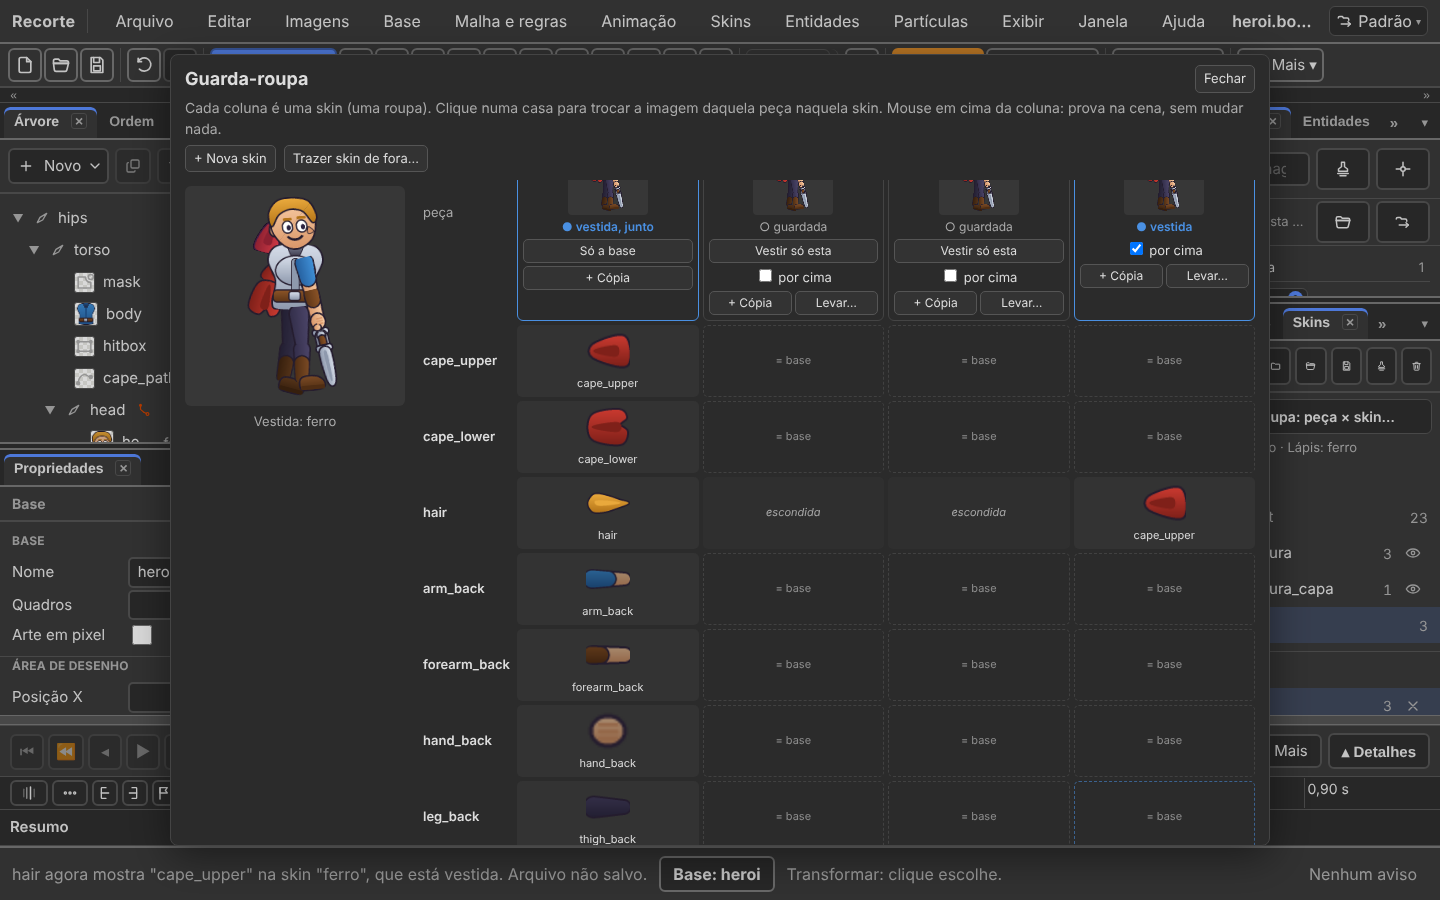
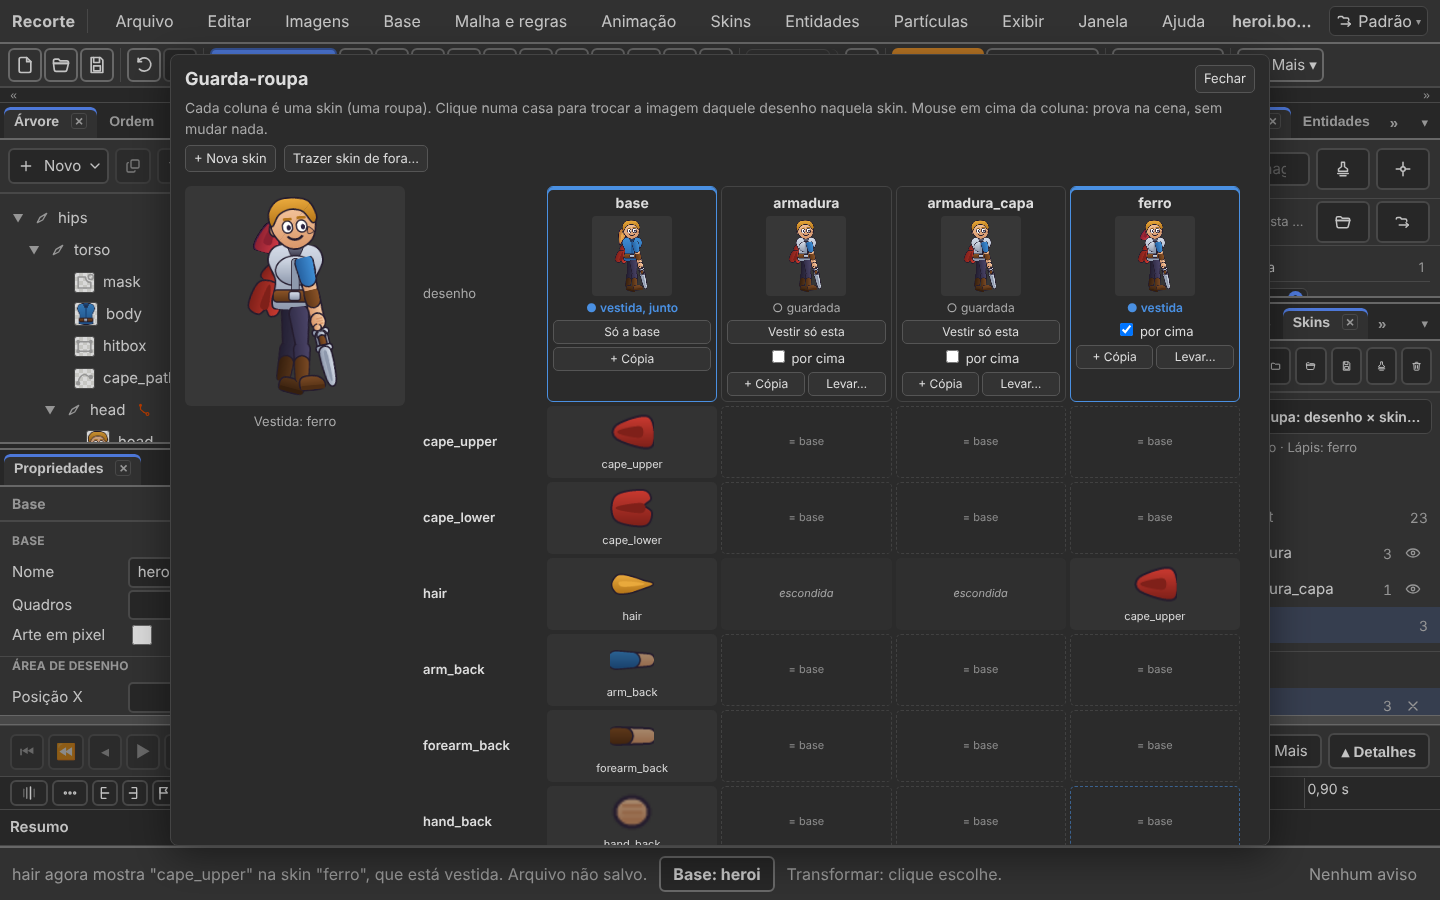
skins: o nome das colunas do Guarda-roupa não rola junto
A foto da prova mostrou: depois de trocar uma imagem, a grade rolava e o
nome da skin de cada coluna sumia. A linha de cima agora fica parada, e a
rolagem da grade se guarda no redesenho.

Claude-Session: https://claude.ai/code/session_01ToK6BbHkRJR6siNrn32NnF

diff --git a/editor/src/panels/skins-wardrobe.ts b/editor/src/panels/skins-wardrobe.ts
@@ -80,6 +80,8 @@ class Wardrobe {
   private readonly fundo: HTMLElement;
   private readonly caixa: HTMLElement;
   private readonly grade: HTMLElement;
+  /** A linha das colunas, fora da parte que rola: o nome da skin nunca some. */
+  private readonly topo: HTMLElement;
   private readonly escolha: HTMLElement;
   /** O boneco grande, à esquerda: mostra o vestido, ou a prova do mouse. */
   private readonly manequim: HTMLImageElement;
@@ -118,7 +120,8 @@ class Wardrobe {
       }),
     );
 
-    this.grade = el('div', 'guarda-roupa-grade');
+    this.topo = el('div', 'guarda-roupa-grade guarda-roupa-topo');
+    this.grade = el('div', 'guarda-roupa-grade guarda-roupa-corpo');
     this.escolha = el('div', 'guarda-roupa-escolha');
     this.escolha.hidden = true;
     // O manequim dos jogos de roupa: o boneco grande ao lado da grade. A
@@ -132,7 +135,9 @@ class Wardrobe {
     lado.append(this.manequim, this.manequimLegenda);
     const meio = el('div', 'guarda-roupa-meio');
     const direita = el('div', 'guarda-roupa-direita');
-    direita.append(this.grade, this.escolha);
+    const tabela = el('div', 'guarda-roupa-tabela');
+    tabela.append(this.topo, this.grade);
+    direita.append(tabela, this.escolha);
     meio.append(lado, direita);
     this.caixa.append(cabeca, ajuda, barra, meio);
     this.fundo.append(this.caixa);
@@ -216,16 +221,22 @@ class Wardrobe {
   render(): void {
     const doc = this.doc;
     const grade = this.grade;
+    const topo = this.topo;
+    const rolagem = grade.scrollTop;
     grade.replaceChildren();
+    topo.replaceChildren();
     const fora = this.externals();
     const pilha = this.provando ?? skinStackOf(doc);
     const colunas = wardrobeColumns(doc.file, pilha, editingSkinOf(doc), fora.map((s) => s.name));
     const pecas = wardrobePieces(doc.file);
-    grade.style.gridTemplateColumns = `minmax(90px, auto) repeat(${colunas.length}, minmax(110px, 1fr))`;
+    // As duas grades com as mesmas colunas: a de cima não rola, a de baixo sim.
+    const molde = `120px repeat(${colunas.length}, minmax(110px, 1fr))`;
+    grade.style.gridTemplateColumns = molde;
+    topo.style.gridTemplateColumns = molde;
 
-    // A linha de cima: um canto vazio, e a cabeça de cada coluna.
-    grade.append(el('div', 'guarda-roupa-canto', 'desenho'));
-    for (const coluna of colunas) grade.append(this.columnHead(coluna));
+    // A linha de cima: um canto, e a cabeça de cada coluna.
+    topo.append(el('div', 'guarda-roupa-canto', 'desenho'));
+    for (const coluna of colunas) topo.append(this.columnHead(coluna));
 
     if (pecas.length === 0) {
       const vazio = el('div', 'guarda-roupa-vazio', WARDROBE_NOTICES.noPieces);
@@ -241,6 +252,8 @@ class Wardrobe {
       }
     }
     this.renderChooser();
+    // Redesenhar não pode jogar a pessoa para o topo da lista.
+    grade.scrollTop = rolagem;
     if (this.provando === null) this.drawMannequin(pilha, null);
   }
 

diff --git a/editor/src/panels/skins.css b/editor/src/panels/skins.css
@@ -430,13 +430,35 @@
   background: var(--painel-hover, #3a3a3a);
 }
 
+.guarda-roupa-tabela {
+  display: flex;
+  flex-direction: column;
+  min-height: 0;
+  flex: 1 1 auto;
+  overflow-x: auto;
+}
+
 .guarda-roupa-grade {
   display: grid;
   gap: 4px;
-  padding: 6px 14px 10px;
-  overflow: auto;
-  min-height: 0;
+  padding: 0 14px;
+  /* As duas grades guardam o mesmo lugar da barra de rolagem: as colunas
+     de cima e de baixo ficam alinhadas. */
+  overflow-y: auto;
+  scrollbar-gutter: stable;
+}
+
+.guarda-roupa-topo {
+  flex: 0 0 auto;
+  overflow-y: hidden;
+  padding-top: 6px;
+  padding-bottom: 4px;
+}
+
+.guarda-roupa-corpo {
   flex: 1 1 auto;
+  min-height: 0;
+  padding-bottom: 10px;
 }
 
 .guarda-roupa-canto,

diff --git a/documentos/projeto do programa/noite/skins-o-desenho.md b/documentos/projeto do programa/noite/skins-o-desenho.md
@@ -145,3 +145,4 @@ Clique numa casa abre a escolha, embaixo da grade:
 | O nome proposto vinha sem seleção: digitar dava "skinferro" | O nome vem selecionado |
 | Depois de marcar **por cima**, o mouse continuava na coluna e a prova mostrava só ela | Clicou na coluna: a prova pausa até o mouse sair |
 | A janela cobre a cena: a prova não se via | O **manequim** (boneco grande) dentro da janela mostra a prova |
+| Depois de trocar, a grade rolava e escondia o nome das colunas (a foto mostrou) | A linha dos nomes fica fora da parte que rola, e a rolagem se guarda |
